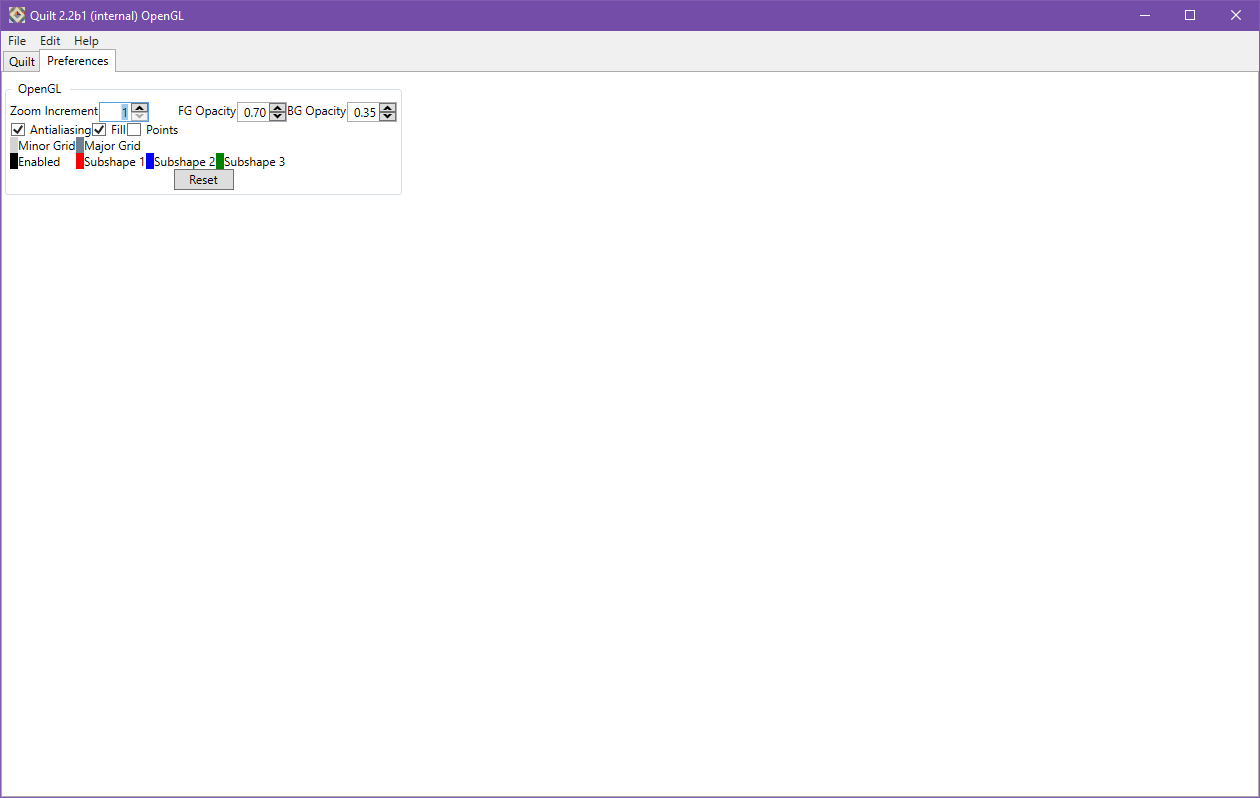
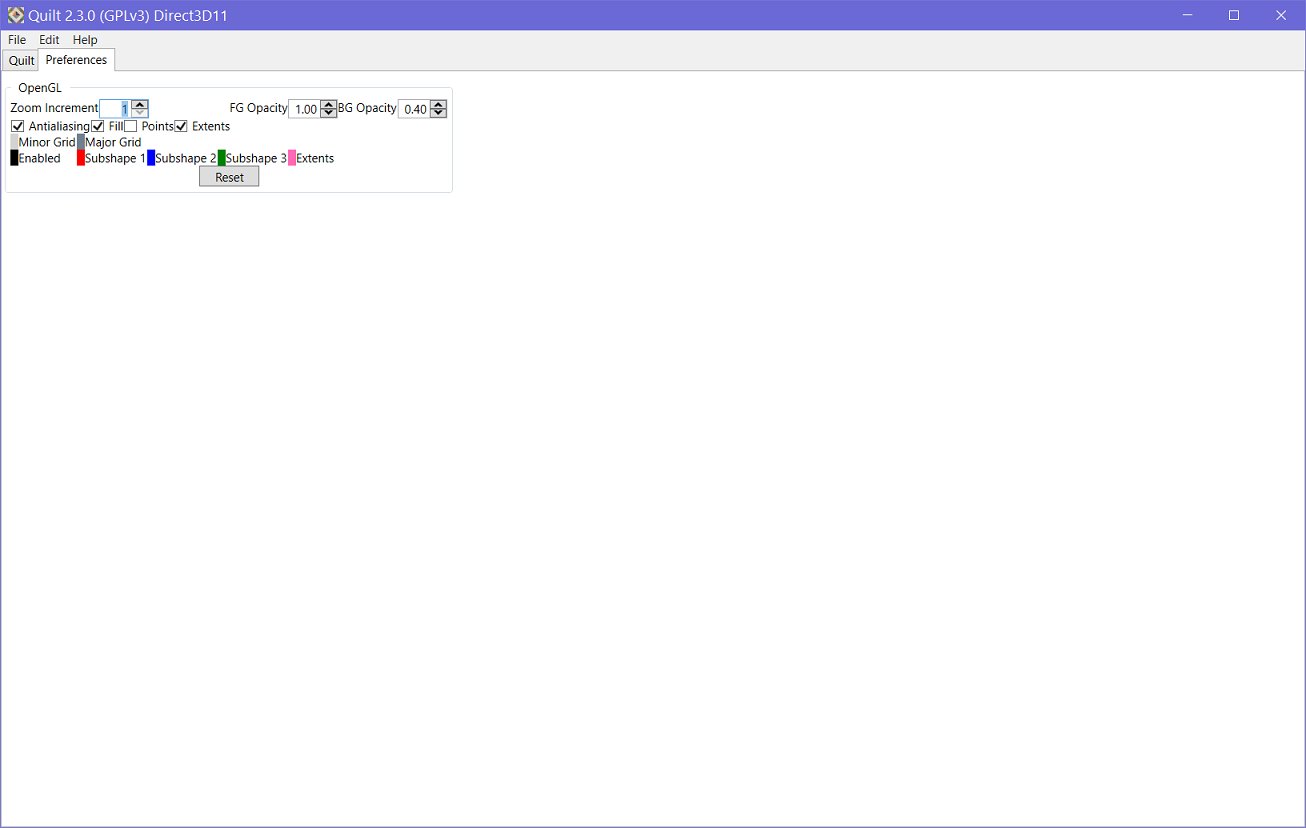
Docs

Changed region(s): [[0.0, 0.0, 1.0, 1.0]]

diff --git a/Documentation/main.html b/Documentation/main.html
@@ -183,7 +183,7 @@ li span {
 </style>
 </head>
 <body lang="en-US" text="#aaaaaa" link="#00aacc" dir="ltr">
-<p style=" border-top: none; border-bottom: 1.00pt solid #4f81bd; border-left: none; border-right: none; padding-top: 0in; padding-bottom: 0.06in; padding-left: 0in; padding-right: 0in; letter-spacing: 0.3pt; line-height: 100%"> <font color="#ffffff" face="Cambria, serif"><font size="6" style="font-size: 20pt">Quilt </font><font size="6" style="font-size: 12pt">(2.2)</font></font></p>
+<p style=" border-top: none; border-bottom: 1.00pt solid #4f81bd; border-left: none; border-right: none; padding-top: 0in; padding-bottom: 0.06in; padding-left: 0in; padding-right: 0in; letter-spacing: 0.3pt; line-height: 100%"> <font color="#ffffff" face="Cambria, serif"><font size="6" style="font-size: 20pt">Quilt </font><font size="6" style="font-size: 12pt">(2.3)</font></font></p>
 <blockquote>
   <p style=" border-top: none; border-bottom: none; border-left: none; border-right: none; padding-top: 0in; padding-bottom: 0.06in; padding-left: 0in; padding-right: 0in; letter-spacing: 0.3pt; line-height: 100%"> <font color="#aaaaaa" face="Cambria, serif"><font color="#aaaaaa" size="6" style="font-size: 20pt"><font size="3" style="font-size: 12pt"><span style="letter-spacing: 0.8pt"><i>Phil Stopford</i></span></font></font></font></p>
 </blockquote>
@@ -200,14 +200,15 @@ li span {
     <ul>
       <li>Text shape for pattern - rectangular primtive that results in a text element in the exported layout.</li>
       <li>Pattern element from bounding box of pattern.</li>
-      <li><span>NEW:</span> Arrays can be constructed from the pattern element.</li>
+      <li>Arrays can be constructed from the pattern element.</li>
     </ul>
     <li>Full range of variations for pattern generator: shape characteristics and positioning.</li>
     <ul>
       <li>Interlayer subshape-relative positioning.</li>
-      <li><span>IMPROVED:</span> Rotation. including relative rotation. Relative rotation can use reference pivot point.</li>
-      <li><span>NEW:</span> Array rotation. including relative rotation. Relative rotation can use reference pivot point.</li>
+      <li>Rotation. including relative rotation. Relative rotation can use reference pivot point.</li>
+      <li>Array rotation. including relative rotation. Relative rotation can use reference pivot point.</li>
     </ul>
+    <li><span>NEW:</span> Pattern extents can now be displayed to ease understanding of the quilt construction.</li>
 	<li>Flip (horizontal, vertical, also aligned in either or both of X and Y) support.</li>
 	<li>Text annotation (pins).</li>
     <li>High performance, multi-threaded pattern generation engine, supporting arbitrary pattern definitions and automatic duplicate removal. 225,000 patterns takes less than 10 seconds.</li>
@@ -217,7 +218,7 @@ li span {
     <ul>
 	    <li>Modern viewport automatically detects and utilizes optimal framework for platform (Vulkan, OpenGL, Direct3D, Metal).</li>
     </ul>
-    <li><span>NEW:</span> Moved to .NET Core 3.1 on all platforms. Mono framework is no longer required.</li>
+    <li>Uses .NET Core 3.1 on all platforms, standalone builds also available.</li>
   </ul>
 </blockquote>
 

diff --git a/Documentation/releases.html b/Documentation/releases.html
@@ -200,6 +200,7 @@ box-shadow: 0 1px 3px black;
     <h1 class="western">Quilt Release History</h1>
 
   <ul id=menu>
+    <li><a href="#releases_230">2.3</a>
     <li><a href="#releases_225">2.2.5</a>
     <li><a href="#releases_224">2.2.4</a>
     <li><a href="#releases_223">2.2.3</a>
@@ -210,6 +211,26 @@ box-shadow: 0 1px 3px black;
     <li><a href="#releases_210">2.1</a>
     <li><a href="#releases_200">2.0</a>
   </ul>
+
+    <blockquote>
+      <a name="releases_230"></a>
+      <h2 class="western">New to 2.3 (TBD)</h2>
+      <table>
+        <tr>
+          <td = width="50%">
+            <img class="c" src="images/versions/2.3_pattern_extents.png" alt=""/>
+          </td>
+          <td = width="50%">
+            <img class="c" src="" alt=""/>
+          </td>
+        </tr>
+      </table>
+      <blockquote>
+        <ul>
+          <li>Added extents drawing to the tool. This allows the user to see the pattern extent used for placement in the quilt, making it easier to understand how placement is behaving.</li>
+        </ul>
+      </blockquote>
+    </blockquote>
 
     <blockquote>
       <a name="releases_225"></a>

diff --git a/Documentation/prefs.html b/Documentation/prefs.html
@@ -183,6 +183,9 @@ img {
 
   <p class="western" style=" line-height: 100%">The color and appearance of elements within the viewport can be configured here. These settings are not stored in the project file, but are retained in a tool preference file and are applied across sessions.</p>
 
+  <p class="western" style=" line-height: 100%">With 'Extents' checked, the pattern extent is drawn into the viewport. This will help to understand how patterns are being placed. The extents are purely viewport-related and are not exported into layout (the extents are recorded in the CSV file used for Variance DOE configuration, however).</p>
+
+  <p style="page-break-before: always"><img src="images/pattern_extents.png" size="100%" alt=""/></p>
 
 </body>
 </html>

diff --git a/Quilt/UI/ViewportUI.cs b/Quilt/UI/ViewportUI.cs
@@ -150,7 +150,7 @@ namespace Quilt
                                 ovpSettings.addBGPolygon(
                                     poly: UIHelper.myPointFArrayToPointFArray(commonVars.stitcher.backgroundShapes[pattern].getPoints()[0]),
                                     polyColor: polyColor,
-                                    alpha: (float)quiltContext.BGOpacity,
+                                    alpha: 1.0f,
                                     layerIndex: 0
                                 );
                             }
